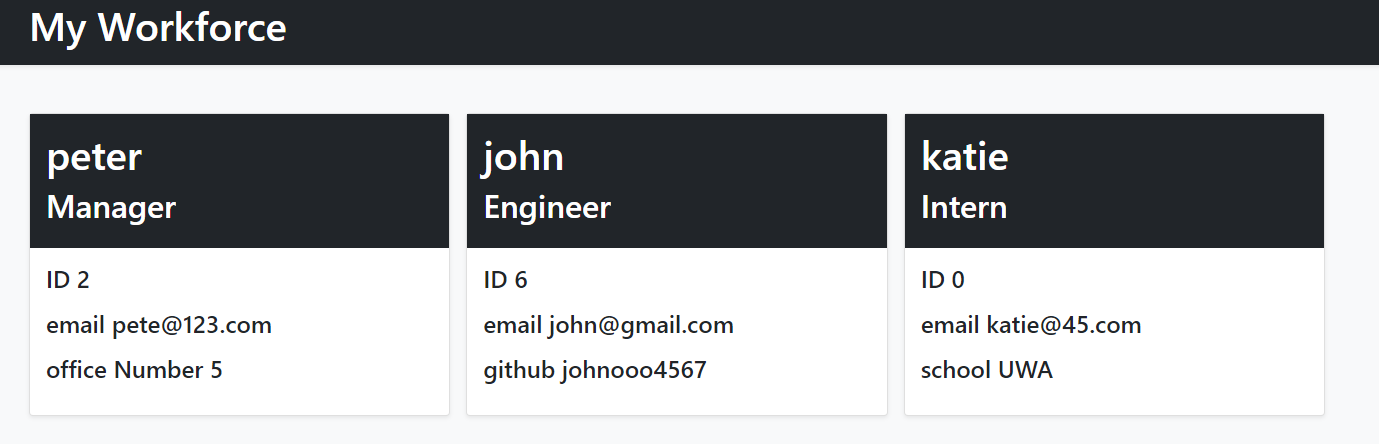
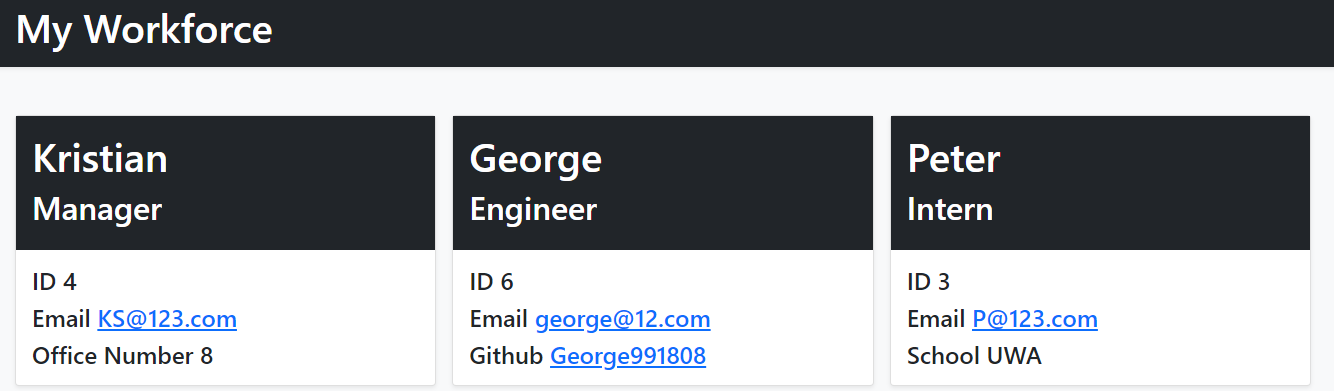
updated the video link in readme and made email and git hub links work

diff --git a/dist/workforce.html b/dist/workforce.html
@@ -67,39 +67,39 @@
         <div class="col">
         <div class="card shadow-sm">
             <div class="col card-body bg-dark">
-                <h1 class="align-items-center text-left text-white" >peter</h1>
+                <h1 class="align-items-center text-left text-white" >Kristian</h1>
                 <h2 class="align-items-center text-left text-white" >Manager</h2>
             </div>
             <div class="card-body">
-                <h4 class="card-text">ID 2</p>
-                <h4 class="card-text">email <a>pete@123.com</a></p>
-                <h4 class="card-text">office Number 5 </p>
+                <h4 class="card-text">ID 3</h4>
+                <h4 class="card-text">Email <a href="worker.email">KS@123.com</a></h4>
+                <h4 class="card-text">Office Number 6 </h4>
             </div>
         </div>
     </div>
         <div class="col">
         <div class="card shadow-sm">
             <div class="col card-body bg-dark">
-                <h1 class="align-items-center text-left text-white" >john</h1>
+                <h1 class="align-items-center text-left text-white" >George</h1>
                 <h2 class="align-items-center text-left text-white" >Engineer</h2>
             </div>
             <div class="card-body">
-                <h4 class="card-text">ID 6</p>
-                <h4 class="card-text">email <a>john@gmail.com</a></p>
-                <h4 class="card-text">github johnooo4567 </p>
+                <h4 class="card-text">ID 8</h4>
+                <h4 class="card-text">Email <a href="worker.email">george@123.com</a></h4>
+                <h4 class="card-text">Github <a href=https://github.com/George991808 >George991808</a> </h4>
             </div>
         </div>
     </div>
         <div class="col">
         <div class="card shadow-sm">
             <div class="col card-body bg-dark">
-                <h1 class="align-items-center text-left text-white" >katie</h1>
+                <h1 class="align-items-center text-left text-white" >Peter</h1>
                 <h2 class="align-items-center text-left text-white" >Intern</h2>
             </div>
             <div class="card-body">
-                <h4 class="card-text">ID 0</p>
-                <h4 class="card-text">email <a>katie@45.com</a></p>
-                <h4 class="card-text">school UWA </p>
+                <h4 class="card-text">ID 9</h4>
+                <h4 class="card-text">Email <a href="worker.email">Pete@123.com</a></h4>
+                <h4 class="card-text">School UWA </h4>
             </div>
         </div>
     </div>

diff --git a/src/createHTML.js b/src/createHTML.js
@@ -5,13 +5,13 @@ const createHTML = (workers) => {
     
         switch (worker.role) {
             case "Engineer":            
-            occupationSpecificInfo= "github " + worker.gitHub   ;         
+            occupationSpecificInfo= "Github <a href=https://github.com/" + worker.gitHub + " >" + worker.gitHub + "</a>" ;         
               break;
             case "Intern":
-                occupationSpecificInfo= "school " + worker.school ;
+                occupationSpecificInfo= "School " + worker.school ;
                 break;
              default:
-             occupationSpecificInfo= "office Number " + worker.officeNumber ;
+             occupationSpecificInfo= "Office Number " + worker.officeNumber ;
         }
           
         workerhtml+=`
@@ -22,9 +22,9 @@ const createHTML = (workers) => {
                 <h2 class="align-items-center text-left text-white" >` + worker.role +`</h2>
             </div>
             <div class="card-body">
-                <h4 class="card-text">ID ` + worker.id +`</p>
-                <h4 class="card-text">email <a>` + worker.email +`</a></p>
-                <h4 class="card-text">` + occupationSpecificInfo +` </p>
+                <h4 class="card-text">ID ` + worker.id +`</h4>
+                <h4 class="card-text">Email <a href="worker.email">` + worker.email +`</a></h4>
+                <h4 class="card-text">` + occupationSpecificInfo +` </h4>
             </div>
         </div>
     </div>`

diff --git a/README.md b/README.md
@@ -5,5 +5,7 @@ Team profile generator creates a html file that can be used to show a workforce.
 ## Example of a generated html
 ![output](./team.PNG)
 
-## example video
-[Link to How To video](./teamprofilegenerator.mp4)
+## Video Demonstration
+
+
+[Link to demonstration video on youtube](https://youtu.be/N1gAmh8iLzU)
